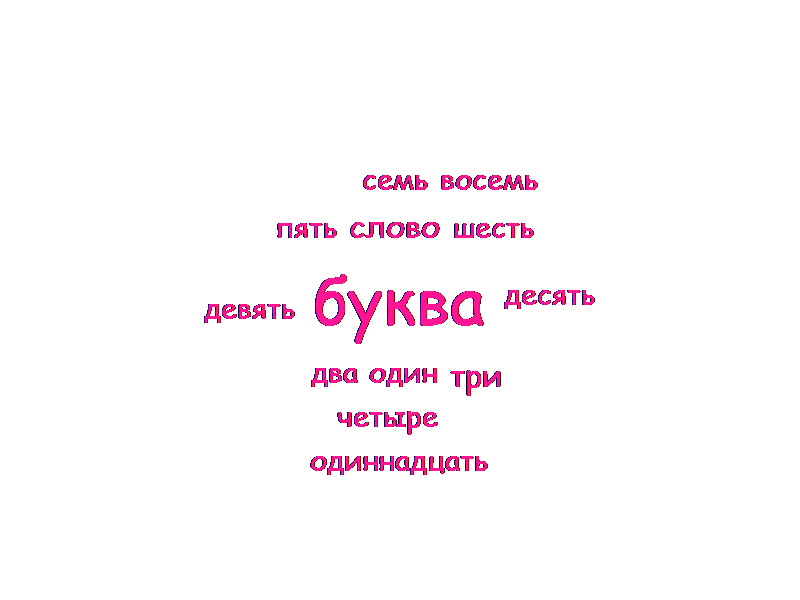
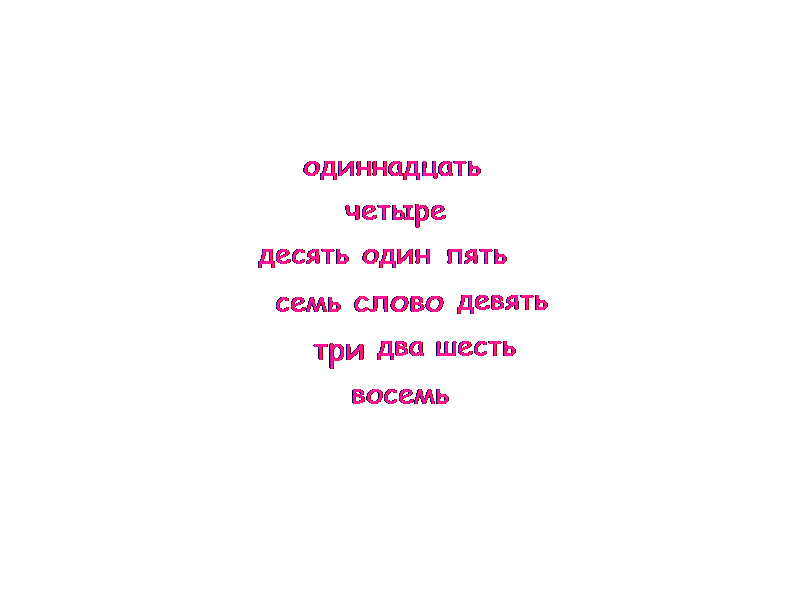
added boring words list configuration

Changed region(s): [[0.25, 0.27, 0.75, 0.72], [0.375, 0.75, 0.625, 0.81]]

diff --git a/TagsCloudApplication/TagsCloudVisualization/Program.cs b/TagsCloudApplication/TagsCloudVisualization/Program.cs
@@ -39,6 +39,12 @@ namespace TagsCloudVisualization
                 .As<IWordFilter>();
             containerBuilder.RegisterType<EmptyWordFilter>()
                 .As<IWordFilter>();
+            if (opts.BoringWordsFilename != null)
+                containerBuilder.Register(c => 
+                new CustomBoringWordsFilter(
+                    c.Resolve<ITextReader>(), 
+                    c.Resolve<Options>().BoringWordsFilename))
+                .As<IWordFilter>();
             containerBuilder.RegisterType<ToLowerCaseProcessor>()
                 .As<IWordProcessor>();
             containerBuilder.RegisterType<TextPreprocessor>();

diff --git a/TagsCloudApplication/TextConfiguration/WordFilters/CustomBoringWordsFilter.cs b/TagsCloudApplication/TextConfiguration/WordFilters/CustomBoringWordsFilter.cs
@@ -1,0 +1,21 @@
+using System.Collections.Generic;
+using System.Linq;
+using TextConfiguration.TextReaders;
+
+namespace TextConfiguration.WordFilters
+{
+    public class CustomBoringWordsFilter : IWordFilter
+    {
+        private readonly List<string> excludedWords;
+
+        public CustomBoringWordsFilter(ITextReader reader, string filename)
+        {
+            excludedWords = reader.ReadText(filename).Split().ToList();
+        }
+
+        public bool ShouldFilter(string word)
+        {
+            return excludedWords.Contains(word.ToLower());
+        }
+    }
+}

diff --git a/TagsCloudApplication/TagsCloudVisualization/Options.cs b/TagsCloudApplication/TagsCloudVisualization/Options.cs
@@ -10,6 +10,9 @@ namespace TagsCloudVisualization
         [Option('o', Default = "Cloud.png", HelpText = "Set path for resulting image")]
         public string OutputFilename { get; set; }
 
+        [Option('b', Default = null, HelpText = "Set path for file with excluded words")]
+        public string BoringWordsFilename { get; set; }
+
         [Option('f', Default = "Comic Sans MS", HelpText = "Set text font family")]
         public string FontFamilyName { get; set; }
 

diff --git a/TagsCloudApplication/TagsCloudLayoutTests/WordsProvider_Should.cs b/TagsCloudApplication/TagsCloudLayoutTests/WordsProvider_Should.cs
@@ -1,9 +1,5 @@
 using NUnit.Framework;
-using System;
 using System.Collections.Generic;
-using System.Linq;
-using System.Text;
-using System.Threading.Tasks;
 using Autofac;
 using System.Reflection;
 using System.IO;
